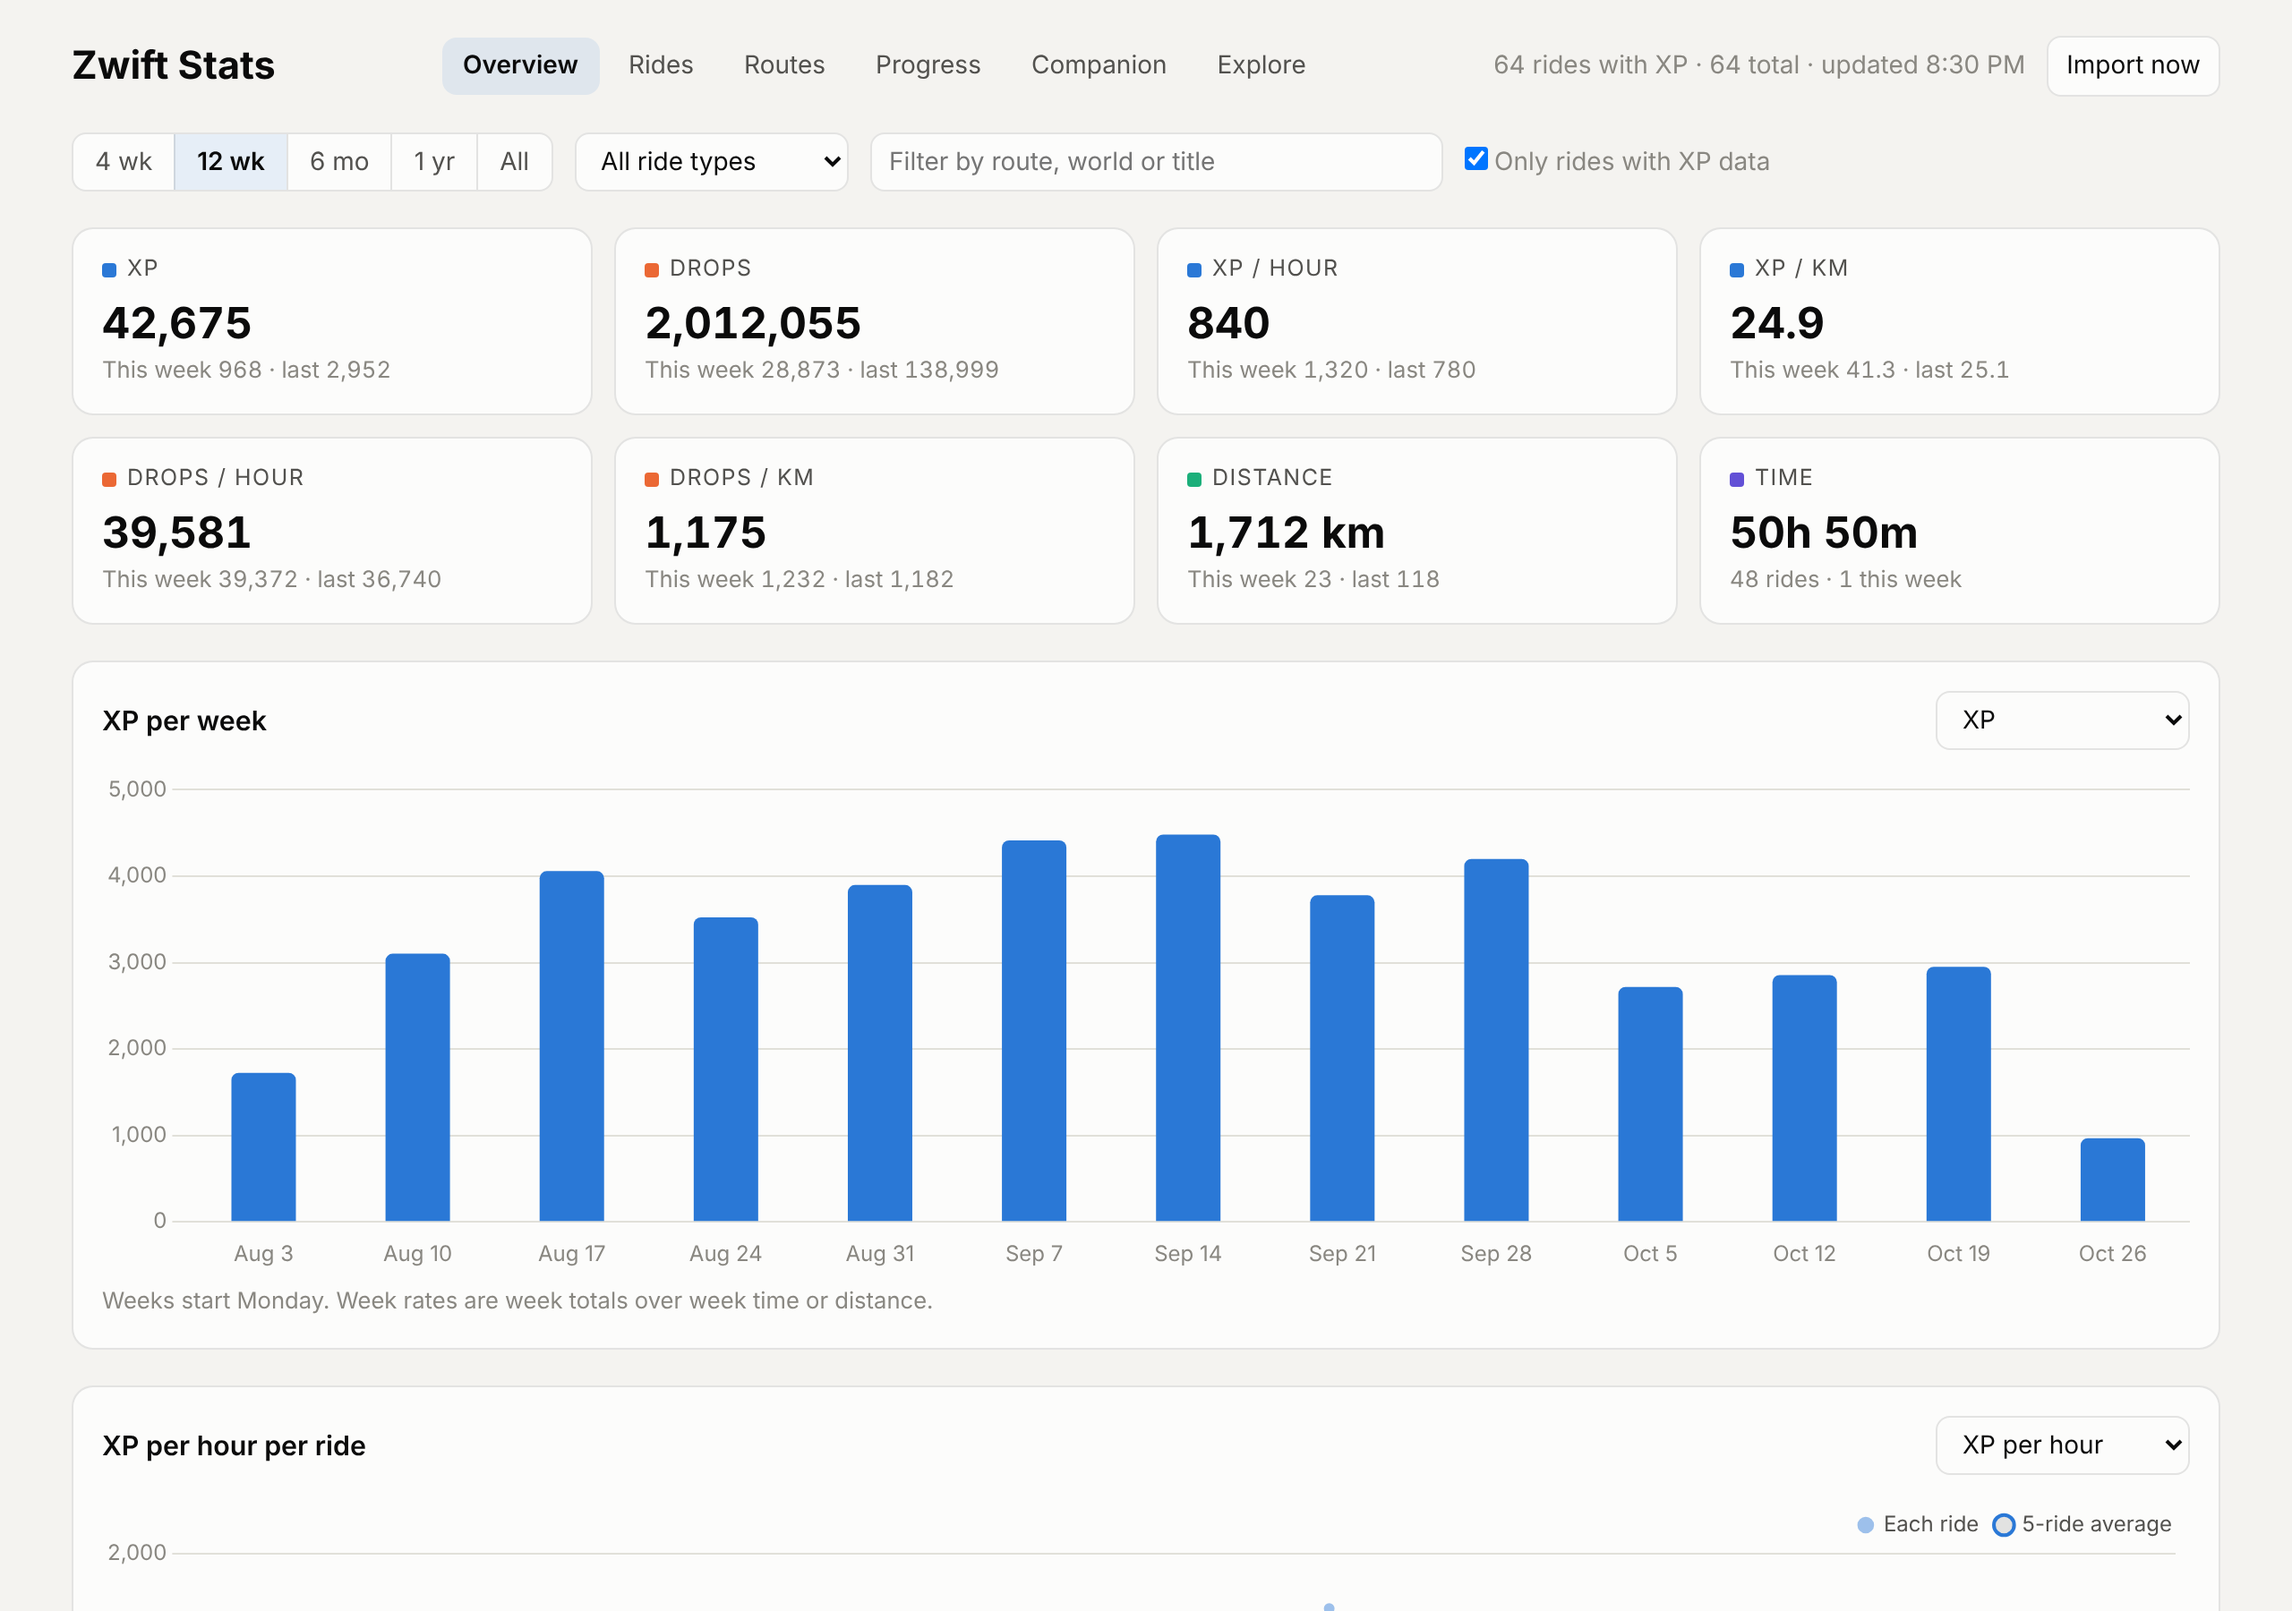
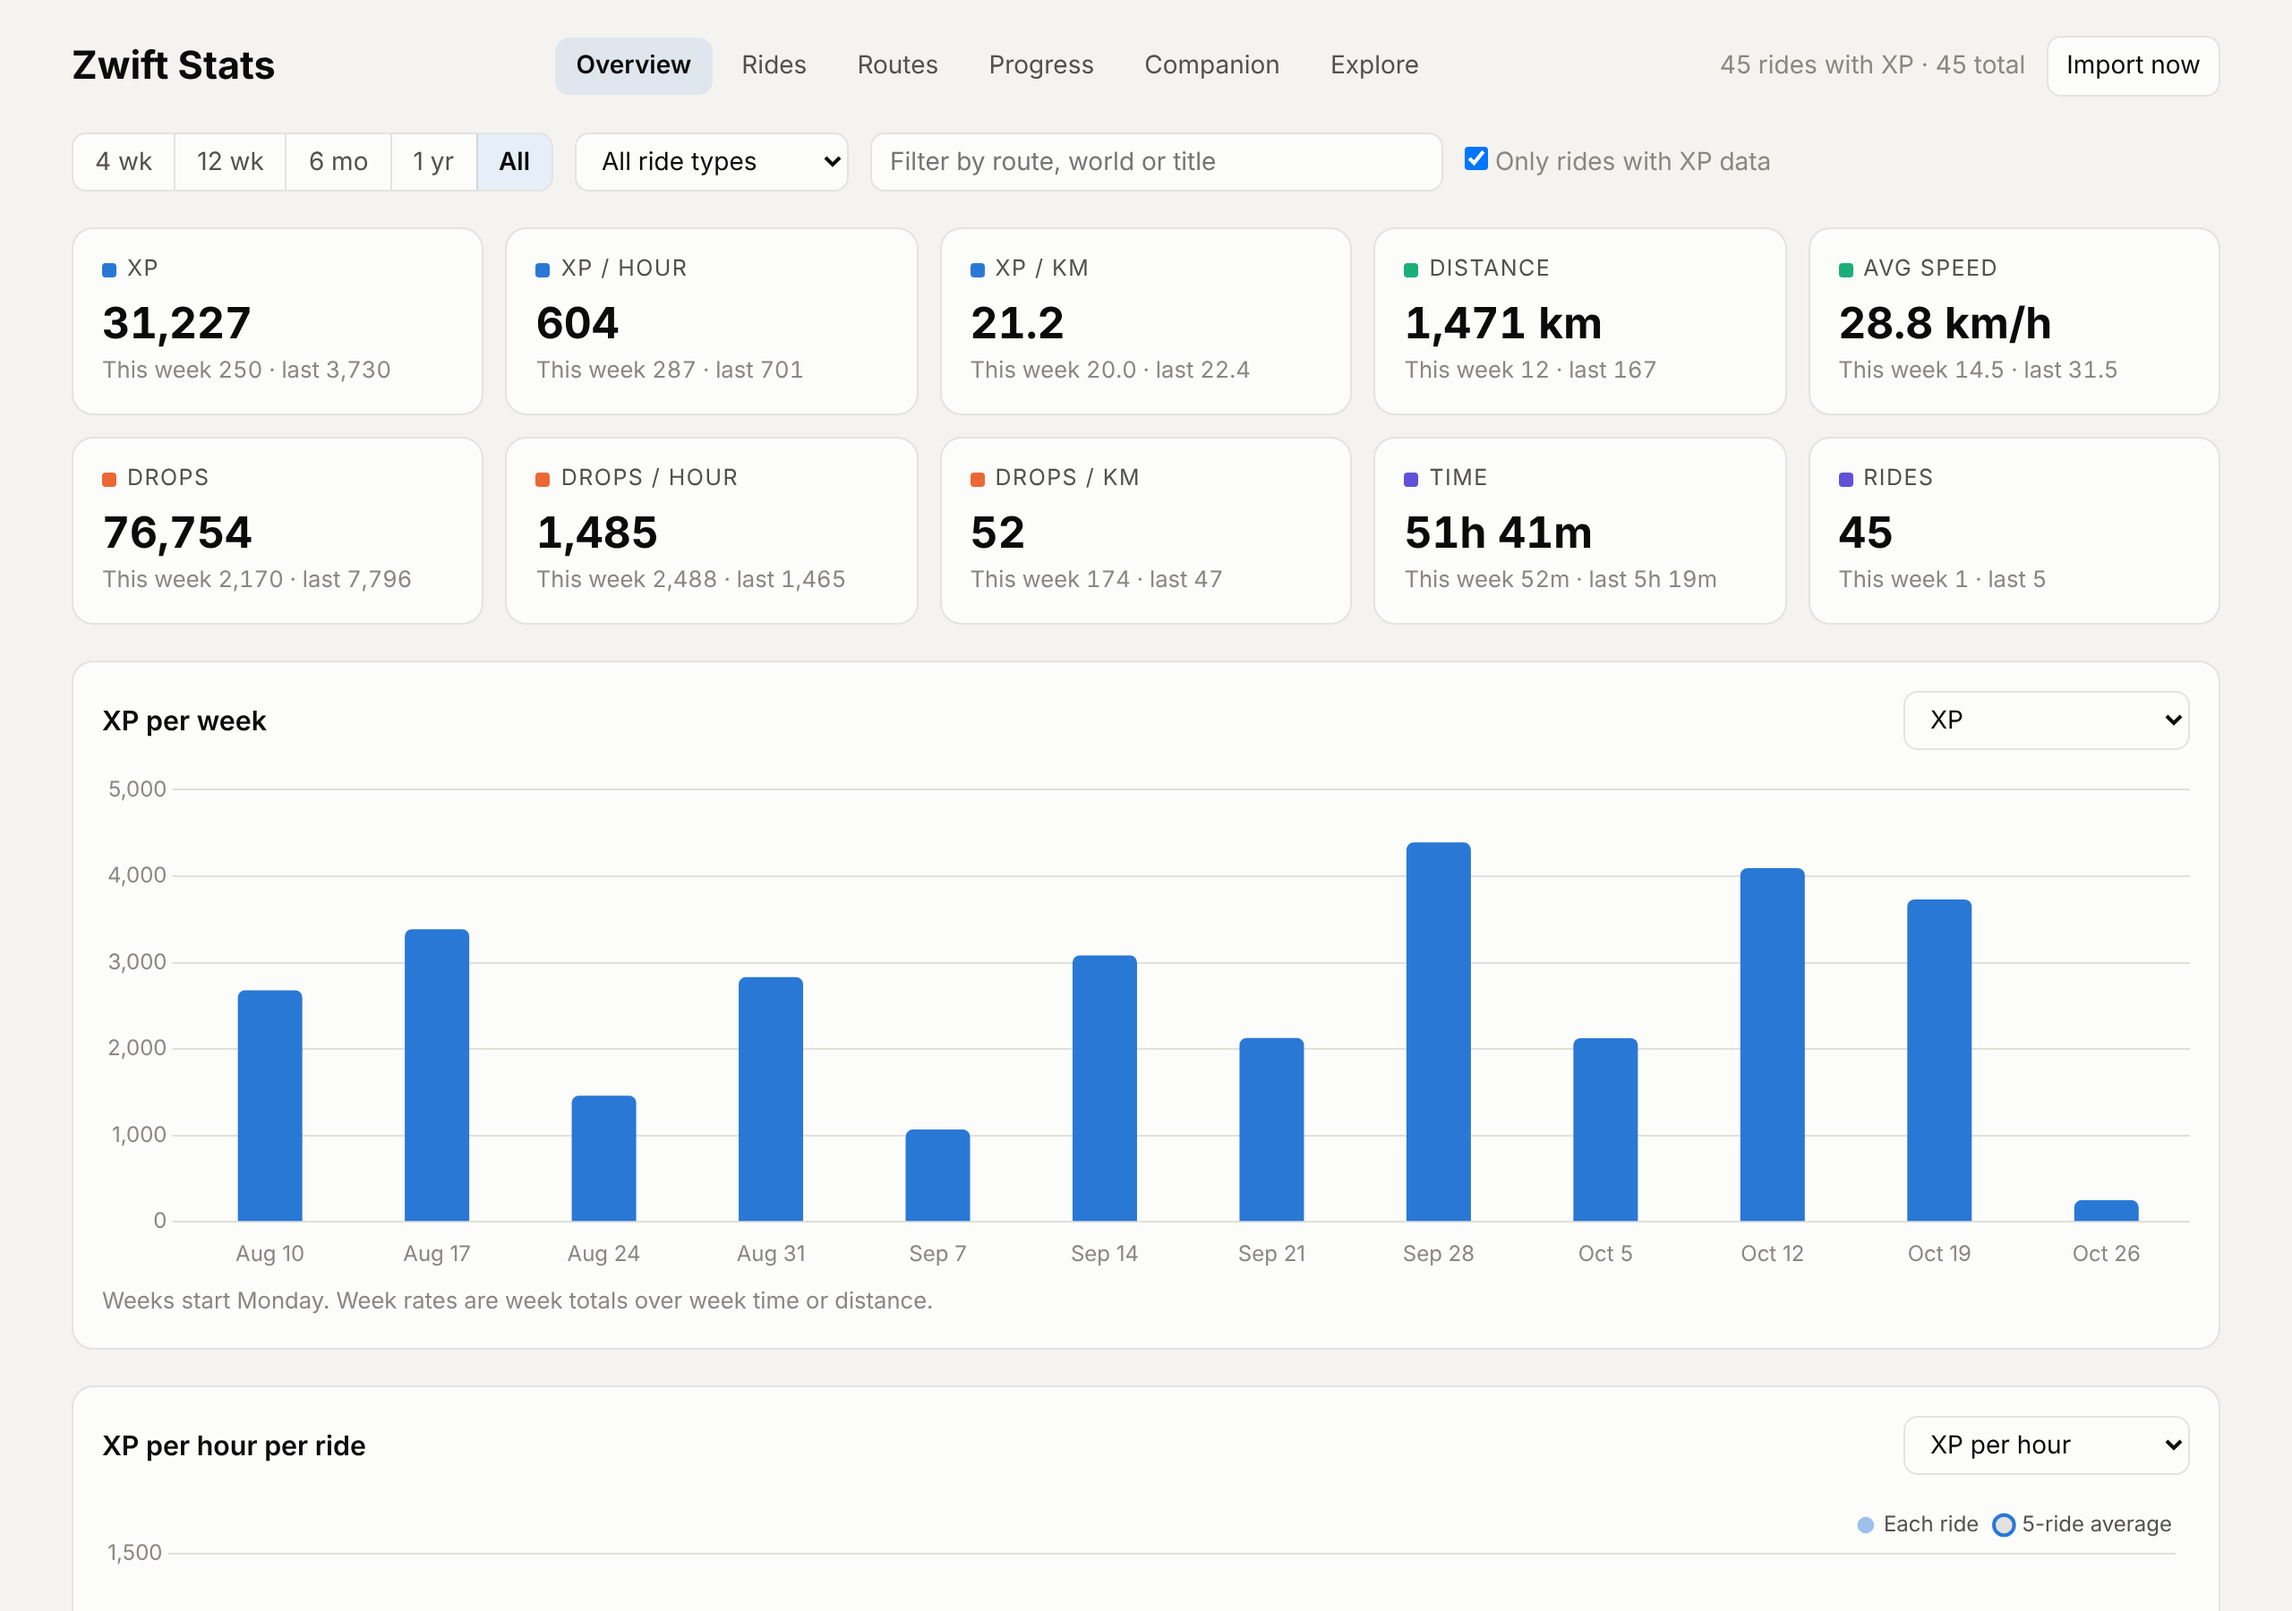
Add average speed (km/h) to rides, routes and the overview
Speed uses the FIT file's moving time when there is one, so pauses don't
drag it down. Overview tiles become two rows of five to fit it, and the
README screenshots are regenerated from sample data.

Claude-Session: https://claude.ai/code/session_01WrmVQWGZFCiXvu9ioWJcB9

diff --git a/zwift-hub/assets/index.html b/zwift-hub/assets/index.html
@@ -96,7 +96,7 @@
     #signinForm { display: flex; flex-wrap: wrap; gap: 8px; align-items: center; margin-top: 12px; }
     #signinForm input { flex: 1 1 200px; max-width: 280px; }
 
-    .tiles { display: grid; grid-template-columns: repeat(4, 1fr); gap: 12px; }
+    .tiles { display: grid; grid-template-columns: repeat(5, 1fr); gap: 12px; }
     @media (max-width: 800px) { .tiles { grid-template-columns: repeat(2, 1fr); } }
     .tile { background: var(--surface-1); border: 1px solid var(--border); border-radius: 12px; padding: 14px 16px; }
     .tile .label { font-size: 0.78rem; color: var(--text-secondary); text-transform: uppercase; letter-spacing: 0.06em; display: flex; align-items: center; gap: 6px; }
@@ -338,13 +338,14 @@ const METRICS = {
   drops:          { label: 'Drops',           color: '--drops',    fmt: fmt0 },
   km:             { label: 'Distance (km)',   color: '--distance', fmt: fmt1 },
   hours:          { label: 'Time (hours)',    color: '--time',     fmt: fmt1 },
+  kmh:            { label: 'Avg speed (km/h)', color: '--distance', fmt: fmt1 },
   xp_per_hour:    { label: 'XP per hour',     color: '--xp',       fmt: fmt0 },
   xp_per_km:      { label: 'XP per km',       color: '--xp',       fmt: fmt1 },
   drops_per_hour: { label: 'Drops per hour',  color: '--drops',    fmt: fmt0 },
   drops_per_km:   { label: 'Drops per km',    color: '--drops',    fmt: fmt0 },
 };
-const WEEKLY_METRICS = ['xp', 'drops', 'km', 'hours', 'xp_per_hour', 'xp_per_km', 'drops_per_hour', 'drops_per_km'];
-const TREND_METRICS = ['xp_per_hour', 'xp_per_km', 'drops_per_hour', 'drops_per_km', 'xp', 'drops', 'km'];
+const WEEKLY_METRICS = ['xp', 'drops', 'km', 'hours', 'kmh', 'xp_per_hour', 'xp_per_km', 'drops_per_hour', 'drops_per_km'];
+const TREND_METRICS = ['xp_per_hour', 'xp_per_km', 'drops_per_hour', 'drops_per_km', 'xp', 'drops', 'km', 'kmh'];
 
 function weekStart(d) {
   const x = new Date(d); x.setHours(0, 0, 0, 0); x.setDate(x.getDate() - ((x.getDay() + 6) % 7)); return x;
@@ -355,6 +356,8 @@ function aggregate(list) {
   const sum = (l, f) => l.reduce((s, r) => s + (f(r) || 0), 0);
   const withXp = list.filter(r => ok(r.xp));
   const timed = withXp.filter(r => r.hours > 0), dist = withXp.filter(r => r.km > 0);
+  // Speed over moving time, like each ride's own; any ride counts, XP or not
+  const moving = list.filter(r => r.km > 0 && r.kmh > 0);
   return {
     rides: list.length,
     xp: withXp.length ? sum(withXp, r => r.xp) : null,
@@ -365,6 +368,7 @@ function aggregate(list) {
     drops_per_hour: sum(timed, r => r.hours) ? sum(timed, r => r.drops) / sum(timed, r => r.hours) : null,
     xp_per_km: sum(dist, r => r.km) ? sum(dist, r => r.xp) / sum(dist, r => r.km) : null,
     drops_per_km: sum(dist, r => r.km) ? sum(dist, r => r.drops) / sum(dist, r => r.km) : null,
+    kmh: moving.length ? sum(moving, r => r.km) / sum(moving, r => r.km / r.kmh) : null,
   };
 }
 
@@ -421,14 +425,17 @@ function renderTiles(list) {
   const tw = aggregate(list.filter(r => r.t >= tw0)), lw = aggregate(list.filter(r => r.t >= lw0 && r.t < tw0));
   const sub = (k, f) => `This week ${f(tw.rides ? tw[k] : null)} · last ${f(lw.rides ? lw[k] : null)}`;
   const tiles = [
+    // Two rows of five: XP and distance on top, Drops and time below
     ['XP', fmt0(a.xp), sub('xp', fmt0), '--xp'],
-    ['Drops', fmt0(a.drops), sub('drops', fmt0), '--drops'],
     ['XP / hour', fmt0(a.xp_per_hour), sub('xp_per_hour', fmt0), '--xp'],
     ['XP / km', fmt1(a.xp_per_km), sub('xp_per_km', fmt1), '--xp'],
+    ['Distance', fmt0(a.km) + ' km', sub('km', fmt0), '--distance'],
+    ['Avg speed', fmt1(a.kmh) + ' km/h', sub('kmh', fmt1), '--distance'],
+    ['Drops', fmt0(a.drops), sub('drops', fmt0), '--drops'],
     ['Drops / hour', fmt0(a.drops_per_hour), sub('drops_per_hour', fmt0), '--drops'],
     ['Drops / km', fmt0(a.drops_per_km), sub('drops_per_km', fmt0), '--drops'],
-    ['Distance', fmt0(a.km) + ' km', sub('km', fmt0), '--distance'],
-    ['Time', fmtHours(a.hours * 3600), `${a.rides} ride${a.rides === 1 ? '' : 's'} · ${tw.rides} this week`, '--time'],
+    ['Time', fmtHours(a.hours * 3600), sub('hours', h => fmtHours(h * 3600)), '--time'],
+    ['Rides', fmt0(a.rides), sub('rides', fmt0), '--time'],
   ];
   document.getElementById('tiles').innerHTML = tiles.map(([label, value, s, color]) => `
     <div class="tile"><div class="label"><span class="swatch" style="background:var(${color})"></span>${label}</div>
@@ -442,7 +449,7 @@ function renderWeekly(list) {
   if (list.length) for (let w = weekStart(list[0].t); w <= list[list.length - 1].t; w.setDate(w.getDate() + 7)) groups.set(w.getTime(), []);
   list.forEach(r => groups.get(weekStart(r.t).getTime()).push(r));
   const weeks = [...groups.entries()];
-  const isRate = key.includes('_per_');
+  const isRate = key.includes('_per_') || key === 'kmh';
   const values = weeks.map(([, l]) => (l.length ? aggregate(l)[key] : (isRate ? null : 0)));
   draw('weeklyChart', {
     type: 'bar',
@@ -521,6 +528,7 @@ function renderRides(list) {
     { key: 'world', label: 'World', left: true, render: r => esc(r.world || '–') },
     { key: 'km', label: 'km', fmt: fmt1 },
     { key: 'duration_s', label: 'Time', render: r => fmtHours(r.duration_s) },
+    { key: 'kmh', label: 'km/h', fmt: fmt1 },
     { key: 'elevation_m', label: 'Climb m', fmt: fmt0 },
     { key: 'avg_power', label: 'Avg W', fmt: fmt0 },
     { key: 'xp', label: 'XP', fmt: fmt0 },
@@ -544,7 +552,7 @@ function renderRideDetail() {
   const facts = [
     ['XP', fmt0(r.xp)], ['Drops', fmt0(r.drops)], ['XP / hour', fmt0(r.xp_per_hour)], ['XP / km', fmt1(r.xp_per_km)],
     ['Drops / hour', fmt0(r.drops_per_hour)], ['Drops / km', fmt0(r.drops_per_km)], ['Distance', fmt1(r.km) + ' km'],
-    ['Time', fmtHours(r.duration_s)], ['Climbing', fmt0(r.elevation_m) + ' m'], ['Avg power', ok(r.avg_power) ? fmt0(r.avg_power) + ' W' : '–'],
+    ['Time', fmtHours(r.duration_s)], ['Avg speed', ok(r.kmh) ? fmt1(r.kmh) + ' km/h' : '–'], ['Climbing', fmt0(r.elevation_m) + ' m'], ['Avg power', ok(r.avg_power) ? fmt0(r.avg_power) + ' W' : '–'],
     ['Normalized power', ok(r.normalized_power) ? fmt0(r.normalized_power) + ' W' : '–'], ['Avg HR', ok(r.avg_hr) ? fmt0(r.avg_hr) + ' bpm' : '–'],
     ['Calories', fmt0(r.calories)], ['Level after', fmt0(r.level)], ['Streak', ok(r.streak_weeks) ? r.streak_weeks + ' weeks' : '–'],
     ['Ride Ons received', fmt0(r.ride_ons_received)], ['Ride Ons given', fmt0(r.ride_ons_given)],
@@ -614,6 +622,7 @@ function groupTable(id, list, keyFn, sortState, setSort, nameLabel) {
     { key: 'name', label: nameLabel, left: true, cls: 'name', render: r => esc(r.name) },
     { key: 'rides', label: 'Rides', fmt: fmt0 },
     { key: 'avg_km', label: 'Avg km', fmt: fmt1 },
+    { key: 'kmh', label: 'km/h', fmt: fmt1 },
     { key: 'xp_per_hour', label: 'XP/hr', fmt: fmt0 },
     { key: 'xp_per_km', label: 'XP/km', fmt: fmt1 },
     { key: 'drops_per_hour', label: 'Drops/hr', fmt: fmt0 },

diff --git a/zwift-hub/src/db.rs b/zwift-hub/src/db.rs
@@ -214,7 +214,9 @@ SELECT *,
     drops / nullif(duration_s / 3600, 0)                   AS drops_per_hour,
     xp    / nullif(distance_m / 1000, 0)                   AS xp_per_km,
     drops / nullif(distance_m / 1000, 0)                   AS drops_per_km,
-    drops / nullif(elevation_m, 0)                         AS drops_per_m_climbed
+    drops / nullif(elevation_m, 0)                         AS drops_per_m_climbed,
+    -- Moving time when the FIT file has it, as Zwift's own average speed leaves out pauses
+    distance_m / nullif(coalesce(moving_s, duration_s), 0) * 3.6 AS kmh
 FROM all_rides
 WHERE duration_s >= 60 OR xp > 0
 "#;
